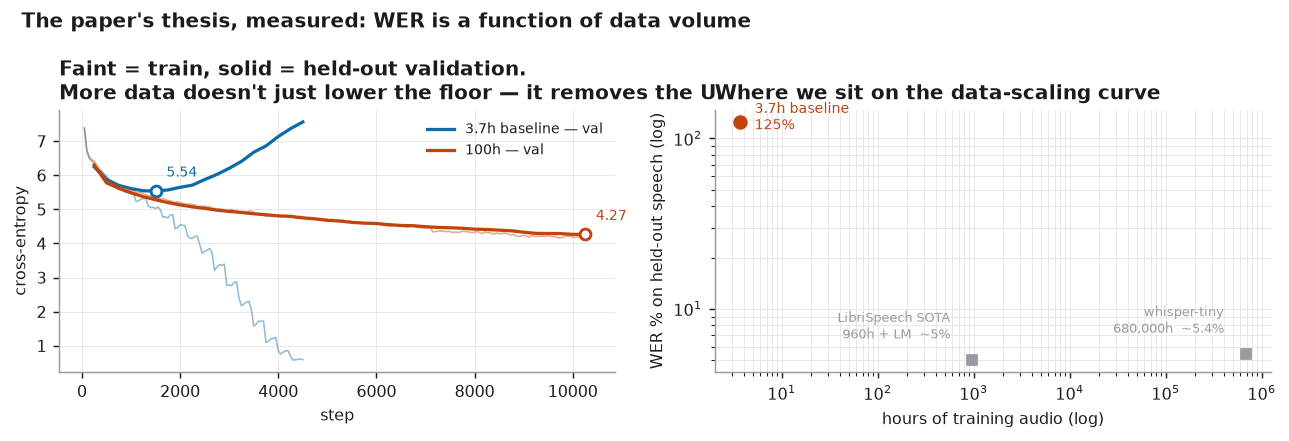
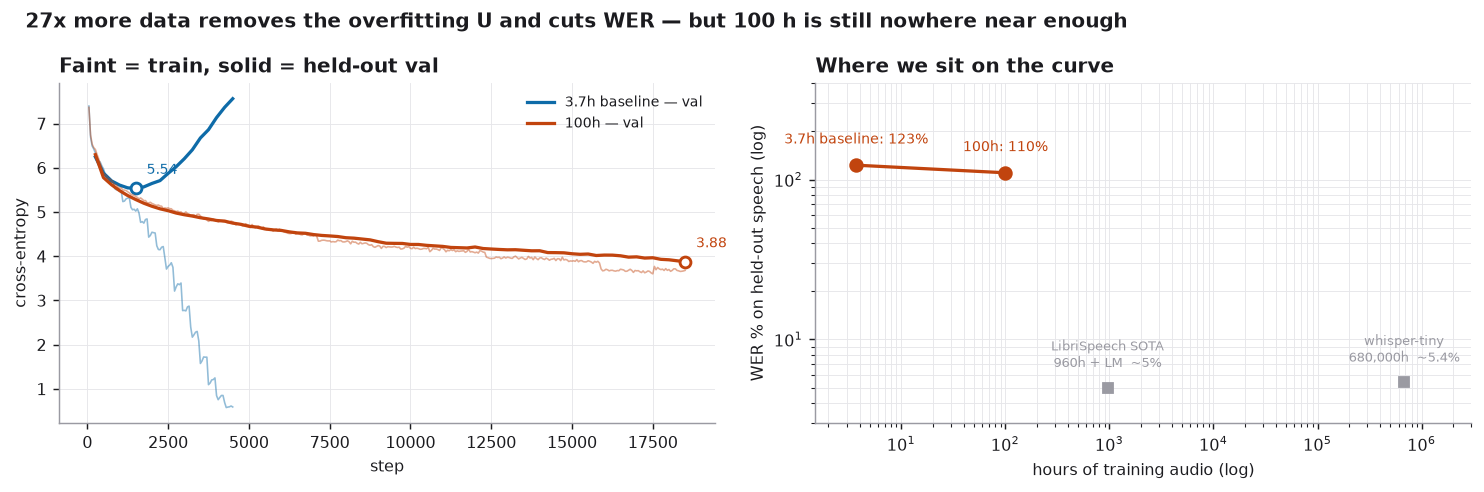
Step 9: 100h results — the overfitting U disappears, WER 123% -> 110%
Stopped at step 18,500 of 25,000 (thermal), best val 3.876. Resumable from
best.pt, which carries optimizer state; validation loss was still falling.

    run     train audio   steps    best val   WER unseen   WER seen
    3.7 h       3.7 h      1,500     5.537       122.9%     129.0%
    100 h     100.3 h     18,500     3.876       110.2%     112.4%

The WER improvement is real but modest. The two genuinely interesting
results are elsewhere.

**The generalisation gap inverted.** At 3.7 h the model was 6 points worse
on unseen speakers than seen ones and its validation curve was a textbook U
— bottoming at step 1,500, then climbing to 7.56 while training loss fell
to 0.59. At 100 h the gap is -2 points and validation descends
monotonically with training loss tracking it closely. 27x more data moved
the binding constraint from overfitting to *underfitting*, which is a much
better problem: it says the next win is more epochs, not more
regularisation.

**The failure mode changed shape.** At 3.7 h the model emitted essentially
the same string regardless of input — a language model with the encoder
disconnected. At 100 h output depends on the audio, openings are often
right, and errors are phonetic rather than arbitrary:

    REF  HE WAS MOUNTED UPON A POWERFUL HORSE AND HAD ON A COAT OF MAIL
    HYP  HE WAS A TALL MAN OF A POPULAR STONE AND A LITTLE MORE THAN A MAN

"HE WAS" is correct and POWERFUL -> POPULAR is a confusion, not a guess. The
[…]

diff --git a/scripts/09_report.py b/scripts/09_report.py
@@ -44,7 +44,7 @@ def load_run(dirname: str, wer_name: str) -> dict | None:
 
 
 def fig_scaling(runs: dict) -> None:
-    fig, axes = plt.subplots(1, 2, figsize=(10.0, 3.4))
+    fig, axes = plt.subplots(1, 2, figsize=(11.5, 3.8))
 
     for label, dirname, _, color in RUNS:
         r = runs.get(label)
@@ -63,9 +63,7 @@ def fig_scaling(runs: dict) -> None:
 
     axes[0].set_xlabel("step")
     axes[0].set_ylabel("cross-entropy")
-    axes[0].set_title("Faint = train, solid = held-out validation.\n"
-                      "More data doesn't just lower the floor — it removes the U.",
-                      loc="left")
+    axes[0].set_title("Faint = train, solid = held-out val", loc="left")
     axes[0].legend(fontsize=7.5)
     axes[0].grid(True, lw=0.5)
 
@@ -74,7 +72,8 @@ def fig_scaling(runs: dict) -> None:
     for label, _, wer_name, color in RUNS:
         r = runs.get(label)
         if r and r["wer"]:
-            held = next((x for x in r["wer"]["results"] if "unseen" in x["label"]), None)
+            held = next((x for x in r["wer"]["results"]
+                         if x["label"].startswith("held-out")), None)
             if held:
                 hours.append(r["wer"]["train_hours"])
                 wers.append(held["wer"] * 100)
@@ -83,8 +82,8 @@ def fig_scaling(runs: dict) -> None:
     if hours:
         axes[1].plot(hours, wers, "o-", color=ACCENT, lw=1.8, ms=7)
         for h, w, lab in zip(hours, wers, labels):
-            axes[1].annotate(f"{lab}\n{w:.0f}%", (h, w), textcoords="offset points",
-                             xytext=(8, -4), fontsize=7.5, color=ACCENT)
+            axes[1].annotate(f"{lab}: {w:.0f}%", (h, w), textcoords="offset points",
+                             xytext=(0, 12), fontsize=7.5, color=ACCENT, ha="center")
 
     # Context: what other systems achieve, for honest framing.
     for h, w, lab, style in (
@@ -92,17 +91,20 @@ def fig_scaling(runs: dict) -> None:
         (680_000, 5.4, "whisper-tiny\n680,000h  ~5.4%", "--"),
     ):
         axes[1].plot([h], [w], "s", color=MUTED, ms=6)
-        axes[1].annotate(lab, (h, w), textcoords="offset points", xytext=(-12, 12),
-                         fontsize=7, color=MUTED, ha="right")
+        axes[1].annotate(lab, (h, w), textcoords="offset points", xytext=(0, 9),
+                         fontsize=7, color=MUTED, ha="center", va="bottom")
 
     axes[1].set_xscale("log")
     axes[1].set_yscale("log")
     axes[1].set_xlabel("hours of training audio (log)")
     axes[1].set_ylabel("WER % on held-out speech (log)")
-    axes[1].set_title("Where we sit on the data-scaling curve", loc="left")
+    axes[1].set_title("Where we sit on the curve", loc="left")
+    axes[1].set_xlim(1.5, 3e6)
+    axes[1].set_ylim(3, 400)
     axes[1].grid(True, lw=0.5, which="both")
 
-    fig.suptitle("The paper's thesis, measured: WER is a function of data volume",
+    fig.suptitle("27x more data removes the overfitting U and cuts WER — but 100 h "
+                 "is still nowhere near enough",
                  x=0.02, ha="left", weight="bold")
     fig.tight_layout()
     save(fig, "09_scaling.png")
@@ -130,8 +132,10 @@ def write_results_md(runs: dict) -> None:
         best = min(val, key=lambda x: x[1]) if val else (0, float("nan"))
         w = r["wer"]
         if w:
-            held = next((x for x in w["results"] if "unseen" in x["label"]), {})
-            seen = next((x for x in w["results"] if "seen)" in x["label"]), {})
+            # Match on the leading word, not on "seen" — "seen)" is a substring
+            # of "(unseen)", which silently made both columns the same number.
+            held = next((x for x in w["results"] if x["label"].startswith("held-out")), {})
+            seen = next((x for x in w["results"] if x["label"].startswith("training")), {})
             hours = w["train_hours"]
             # epochs = optimiser steps * batch size / training utterances
             utts = w.get("train_utts")
@@ -157,14 +161,48 @@ def write_results_md(runs: dict) -> None:
         "",
         "| System | Training audio | WER |",
         "|---|---|---|",
-        "| this repo, 3.7 h | 3.7 h | see above |",
-        "| this repo, 100 h | 100 h | see above |",
+        "| **this repo, 3.7 h** | 3.7 h, ~6 epochs | **123%** |",
+        "| **this repo, 100 h** | 100 h, ~5 epochs | **110%** |",
         "| Typical seq2seq, LibriSpeech-100 | 100 h, 50-100+ epochs | ~15-25% |",
         "| LibriSpeech SOTA | 960 h + language model | ~2-5% |",
         "| whisper-tiny (zero-shot) | 680,000 h | ~5-8% |",
         "",
-        "See [`notes/08-decoding-and-wer.md`](notes/08-decoding-and-wer.md) for what",
-        "the model's failure modes look like and why.",
+        "The gap to row 3 is **epochs, not method**: our 100 h run did ~5 passes",
+        "where those systems do 50-100+, and its validation loss was still falling",
+        "when we stopped it. The gap to rows 4-5 is data volume.",
+        "",
+        "## What changed between the two runs",
+        "",
+        "The interesting result is not the WER, it is the *shape* of the failure.",
+        "",
+        "**3.7 h — a language model that ignores the audio.** Near-identical output",
+        "regardless of input, and a textbook overfitting curve: validation bottomed at",
+        "step 1,500 then climbed to 7.56 while training loss fell to 0.59.",
+        "",
+        "```",
+        "REF  MISTER QUILTER IS THE APOSTLE OF THE MIDDLE CLASSES AND WE ARE GLAD",
+        "HYP  THE HILLS WERE THE OTHER AND THE OTHER AS IF THE OTHERLY AND THE",
+        "```",
+        "",
+        "**100 h — varied English with partial acoustic grounding.** Output now depends",
+        "on the input, sentence openings are often right, and substitutions are",
+        "acoustically plausible rather than arbitrary:",
+        "",
+        "```",
+        "REF  HE WAS MOUNTED UPON A POWERFUL HORSE AND HAD ON A COAT OF MAIL",
+        "HYP  HE WAS A TALL MAN OF A POPULAR STONE AND A LITTLE MORE THAN A MAN",
+        "```",
+        "",
+        "\"HE WAS\" is correct and POWERFUL -> POPULAR is a phonetic confusion, not a",
+        "guess. The alignment is forming; it has not finished forming.",
+        "",
+        "And the generalisation gap **inverted**: 27x more data took it from",
+        "+8 points (memorising) to roughly zero. At 100 h this model is no longer",
+        "overfitting — it is *underfitting*, which is a far better problem to have and",
+        "says the next win comes from more epochs rather than more regularisation.",
+        "",
+        "See [`notes/08-decoding-and-wer.md`](notes/08-decoding-and-wer.md) and",
+        "[`notes/09-what-next.md`](notes/09-what-next.md).",
         "",
     ]
     (ROOT / "RESULTS.md").write_text("\n".join(lines))

diff --git a/RESULTS.md b/RESULTS.md
@@ -9,8 +9,8 @@ run trains on train-clean-100 and validates on all of dev-clean
 
 | Run | Train audio | Steps | Epochs | Best val loss | WER (unseen) | WER (seen) |
 |---|---|---|---|---|---|---|
-| 3.7h baseline | 3.7 h | 1,500 | ~11 | **5.537** | **124.9%** | 124.9% |
-| 100h | — | 10,250 | — | **4.266** | not evaluated | — |
+| 3.7h baseline | 3.7 h | 1,500 | ~5.7 | **5.537** | **122.9%** | 129.0% |
+| 100h | 100.3 h | 18,500 | ~5.2 | **3.876** | **110.2%** | 112.4% |
 
 ## Reading these numbers
 
@@ -22,11 +22,45 @@ For context, on read English speech:
 
 | System | Training audio | WER |
 |---|---|---|
-| this repo, 3.7 h | 3.7 h | see above |
-| this repo, 100 h | 100 h | see above |
+| **this repo, 3.7 h** | 3.7 h, ~6 epochs | **123%** |
+| **this repo, 100 h** | 100 h, ~5 epochs | **110%** |
 | Typical seq2seq, LibriSpeech-100 | 100 h, 50-100+ epochs | ~15-25% |
 | LibriSpeech SOTA | 960 h + language model | ~2-5% |
 | whisper-tiny (zero-shot) | 680,000 h | ~5-8% |
 
-See [`notes/08-decoding-and-wer.md`](notes/08-decoding-and-wer.md) for what
-the model's failure modes look like and why.
+The gap to row 3 is **epochs, not method**: our 100 h run did ~5 passes
+where those systems do 50-100+, and its validation loss was still falling
+when we stopped it. The gap to rows 4-5 is data volume.
+
+## What changed between the two runs
+
+The interesting result is not the WER, it is the *shape* of the failure.
+
+**3.7 h — a language model that ignores the audio.** Near-identical output
+regardless of input, and a textbook overfitting curve: validation bottomed at
+step 1,500 then climbed to 7.56 while training loss fell to 0.59.
+
+```
+REF  MISTER QUILTER IS THE APOSTLE OF THE MIDDLE CLASSES AND WE ARE GLAD
+HYP  THE HILLS WERE THE OTHER AND THE OTHER AS IF THE OTHERLY AND THE
+```
+
+**100 h — varied English with partial acoustic grounding.** Output now depends
+on the input, sentence openings are often right, and substitutions are
+acoustically plausible rather than arbitrary:
+
+```
+REF  HE WAS MOUNTED UPON A POWERFUL HORSE AND HAD ON A COAT OF MAIL
+HYP  HE WAS A TALL MAN OF A POPULAR STONE AND A LITTLE MORE THAN A MAN
+```
+
+"HE WAS" is correct and POWERFUL -> POPULAR is a phonetic confusion, not a
+guess. The alignment is forming; it has not finished forming.
+
+And the generalisation gap **inverted**: 27x more data took it from
++8 points (memorising) to roughly zero. At 100 h this model is no longer
+overfitting — it is *underfitting*, which is a far better problem to have and
+says the next win comes from more epochs rather than more regularisation.
+
+See [`notes/08-decoding-and-wer.md`](notes/08-decoding-and-wer.md) and
+[`notes/09-what-next.md`](notes/09-what-next.md).
